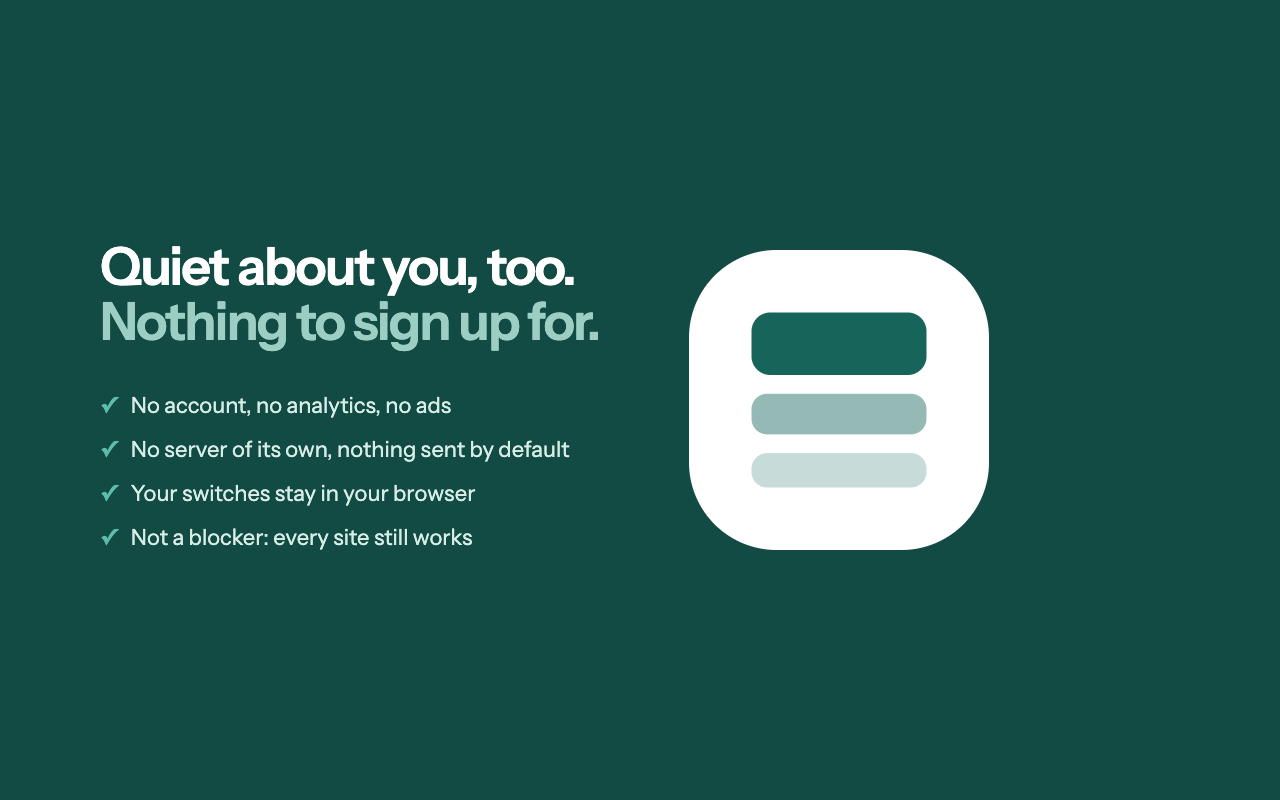
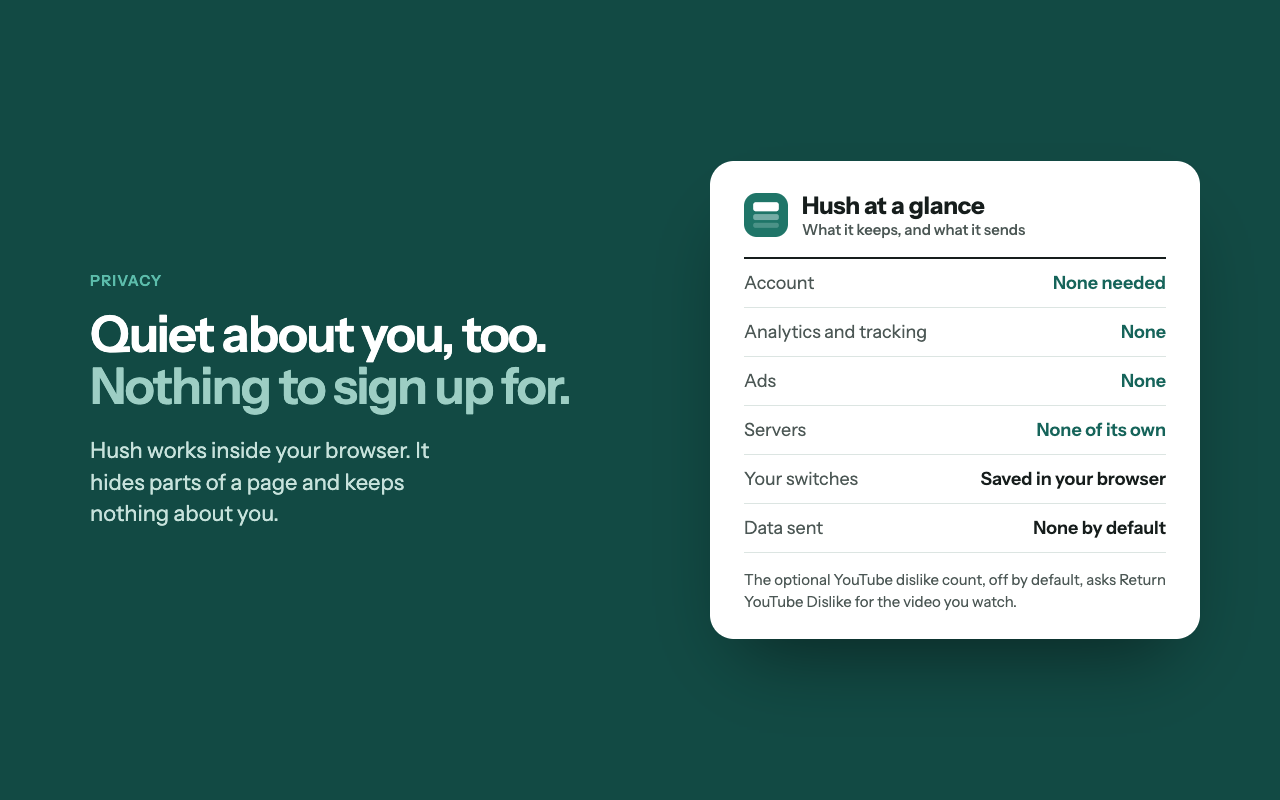
Store screenshots: fanned popups and a privacy card

Changed region(s): [[0.5312, 0.1875, 0.9375, 0.8125], [0.0625, 0.3125, 0.4688, 0.6875]]

diff --git a/docs/store/screenshots/src/shots.html b/docs/store/screenshots/src/shots.html
@@ -24,15 +24,34 @@ p.lead { margin: 18px 0 0; font-size: 21px; line-height: 1.45; color: #56625F; m
 #s2 ul { margin: 28px 0 0; padding: 0; list-style: none; font-size: 20px; line-height: 1.9; }
 #s2 li::before { content: ''; display: inline-block; width: 10px; height: 10px; border-radius: 50%; background: #1F6F65; margin-right: 14px; vertical-align: 2px; }
 
-#s3 { flex-direction: column; align-items: center; padding-top: 56px; }
-#s3 .row { display: flex; gap: 34px; margin-top: 44px; }
-#s3 .row img { width: 360px; }
+#s3 { align-items: center; padding: 0 0 0 90px; }
+#s3 .text { width: 470px; flex: none; }
+#s3 .chips { display: flex; flex-wrap: nowrap; gap: 8px; margin-top: 30px; }
+#s3 .chips span { font-size: 15px; font-weight: 600; padding: 8px 13px; border-radius: 999px; background: #fff; border: 1px solid #D5DFDC; color: #17201E; }
+#s3 .chips span.on { background: #1F6F65; border-color: #1F6F65; color: #fff; }
+#s3 .stage { position: relative; flex: 1; height: 800px; }
+#s3 .stage img { position: absolute; width: 360px; }
+#s3 .back-l { left: -10px; top: 210px; transform: rotate(-7deg); opacity: .96; }
+#s3 .back-r { left: 290px; top: 210px; transform: rotate(7deg); opacity: .96; }
+#s3 .front { left: 140px; top: 170px; z-index: 2; box-shadow: 0 40px 80px -24px rgba(23,32,30,.45), 0 0 0 1px rgba(23,32,30,.08); }
+#s3 .glow { position: absolute; left: 60px; top: 120px; width: 560px; height: 560px; border-radius: 50%; background: radial-gradient(circle, #DDEFEA 0%, rgba(221,239,234,0) 70%); }
 
-#s4 { background: #17544D; color: #fff; align-items: center; padding: 0 100px; gap: 90px; }
+#s4 { background: #17544D; color: #fff; align-items: center; padding: 0 80px 0 90px; gap: 56px; }
+#s4 .text { flex: 1; min-width: 540px; }
+#s4 h1 { font-size: 50px; }
 #s4 h1 em { color: #A9D4CB; }
-#s4 ul { margin: 34px 0 0; padding: 0; list-style: none; font-size: 22px; line-height: 2; color: #DDEFEA; }
-#s4 li::before { content: '✓'; color: #6CC4B4; font-weight: 700; margin-right: 14px; }
-#s4 .badge { width: 300px; height: 300px; flex: none; }
+#s4 p.lead { color: #CFE6E0; max-width: 26ch; font-size: 22px; margin-top: 22px; }
+#s4 .card { width: 490px; flex: none; background: #fff; color: #17201E; border-radius: 24px; padding: 30px 34px 26px; box-shadow: 0 40px 80px -30px rgba(0,0,0,.5); }
+#s4 .card header { display: flex; align-items: center; gap: 14px; padding-bottom: 18px; border-bottom: 2px solid #17201E; }
+#s4 .card header img { width: 44px; height: 44px; }
+#s4 .card header b { font-size: 24px; letter-spacing: -.01em; }
+#s4 .card header small { display: block; font-size: 15px; color: #56625F; font-weight: 500; }
+#s4 dl { margin: 0; }
+#s4 dl div { display: flex; justify-content: space-between; gap: 20px; padding: 13px 0; border-bottom: 1px solid #E1E8E6; font-size: 18px; }
+#s4 dt { color: #56625F; }
+#s4 dd { margin: 0; font-weight: 600; text-align: right; }
+#s4 dd.none { color: #1F6F65; }
+#s4 .card footer { margin-top: 16px; font-size: 15px; color: #56625F; line-height: 1.45; }
 </style></head><body>
 
 <section class="shot" id="s1">
@@ -58,25 +77,37 @@ p.lead { margin: 18px 0 0; font-size: 21px; line-height: 1.45; color: #56625F; m
 </section>
 
 <section class="shot" id="s3">
-  <h1>Five sites, <em>one quiet popup.</em></h1>
-  <p class="lead" style="max-width:none;text-align:center">YouTube, X, Reddit, LinkedIn and Instagram. Light and dark.</p>
-  <div class="row">
-    <img class="pop" src="popup-instagram-dark.png" alt="">
-    <img class="pop" src="popup-x-light.png" alt="">
-    <img class="pop" src="popup-reddit-dark.png" alt="">
+  <div class="text">
+    <span class="pill">Five sites</span>
+    <h1>One quiet popup<br><em>for every feed.</em></h1>
+    <p class="lead">It opens on the site you are on. Each site has its own switches, in light or dark.</p>
+    <div class="chips"><span>YouTube</span><span class="on">X</span><span>Reddit</span><span>LinkedIn</span><span>Instagram</span></div>
+  </div>
+  <div class="stage">
+    <div class="glow"></div>
+    <img class="pop back-l" src="popup-instagram-dark.png" alt="">
+    <img class="pop back-r" src="popup-reddit-dark.png" alt="">
+    <img class="pop front" src="popup-x-light.png" alt="">
   </div>
 </section>
 
 <section class="shot" id="s4">
-  <div>
+  <div class="text">
+    <span class="pill" style="color:#6CC4B4">Privacy</span>
     <h1>Quiet about you, too.<br><em>Nothing to sign up for.</em></h1>
-    <ul>
-      <li>No account, no analytics, no ads</li>
-      <li>No server of its own, nothing sent by default</li>
-      <li>Your switches stay in your browser</li>
-      <li>Not a blocker: every site still works</li>
-    </ul>
+    <p class="lead">Hush works inside your browser. It hides parts of a page and keeps nothing about you.</p>
   </div>
-  <img class="badge" src="hush-icon-reverse.svg" alt="">
+  <div class="card">
+    <header><img src="hush-icon.svg" alt=""><div><b>Hush at a glance</b><small>What it keeps, and what it sends</small></div></header>
+    <dl>
+      <div><dt>Account</dt><dd class="none">None needed</dd></div>
+      <div><dt>Analytics and tracking</dt><dd class="none">None</dd></div>
+      <div><dt>Ads</dt><dd class="none">None</dd></div>
+      <div><dt>Servers</dt><dd class="none">None of its own</dd></div>
+      <div><dt>Your switches</dt><dd>Saved in your browser</dd></div>
+      <div><dt>Data sent</dt><dd>None by default</dd></div>
+    </dl>
+    <footer>The optional YouTube dislike count, off by default, asks Return YouTube Dislike for the video you watch.</footer>
+  </div>
 </section>
 </body></html>
